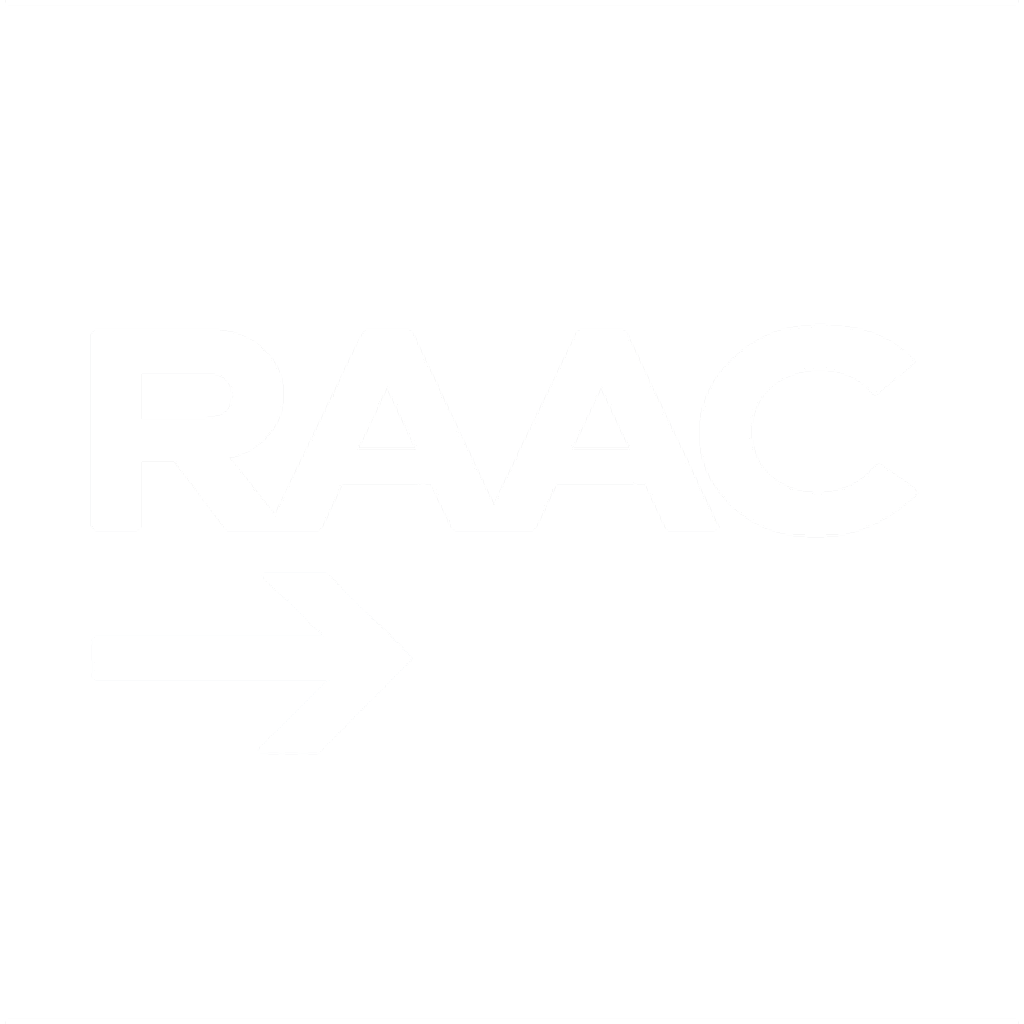
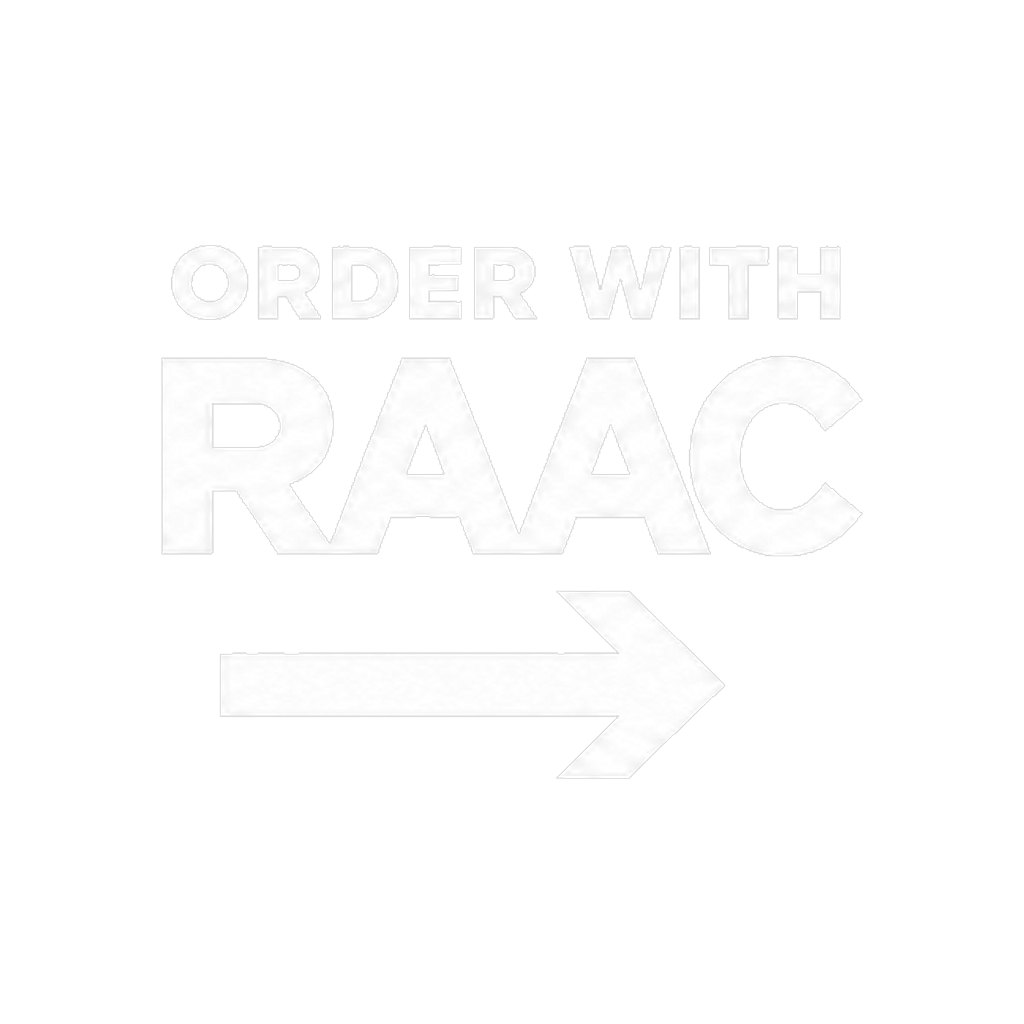
Switch the Raac app to the orange ORDER WITH mark and #FB7701 brand.

Changed region(s): [[0.75, 0.2812, 0.7812, 0.3125]]

diff --git a/constants/theme.ts b/constants/theme.ts
@@ -5,14 +5,15 @@
 
 import { Platform } from 'react-native';
 
-/** Raac brand — navy field + arrow blue from the wordmark. */
+/** Raac brand — orange field from the wordmark. */
 export const Brand = {
+  orange: '#FB7701',
+  orangeStrong: '#E06800',
   navy: '#202B3D',
   blue: '#3376BD',
-  blueStrong: '#2868A8',
 };
 
-const tintColorLight = Brand.blue;
+const tintColorLight = Brand.orange;
 const tintColorDark = '#fff';
 
 export const Colors = {
@@ -66,9 +67,9 @@ export const AppColors = {
   muted: '#6A6A6A',
   border: '#E6E6E6',
   accent: '#000000',
-  header: Brand.navy,
-  primary: Brand.blue,
+  header: Brand.orange,
+  primary: Brand.orange,
   disabled: '#F1F1F1',
   disabledText: '#B3B3B3',
-  link: Brand.blue,
+  link: Brand.orange,
 };

diff --git a/lib/local-images.ts b/lib/local-images.ts
@@ -9,7 +9,7 @@ import type { ImageSourcePropType } from 'react-native';
  * in AsyncStorage. Later launches skip re-unpacking the bundle asset.
  * Bump CACHE_VERSION when you replace the source PNG in assets/.
  */
-const CACHE_VERSION = 'v2';
+const CACHE_VERSION = 'v3';
 const META_KEY = '@raac/local-image-cache';
 const DIR = `${FileSystem.documentDirectory ?? ''}raac-images/`;
 

diff --git a/app/get-started.tsx b/app/get-started.tsx
@@ -155,7 +155,7 @@ const styles = StyleSheet.create({
   },
   brandLogo: {
     width: scaleWidth(196),
-    height: scaleHeight(104),
+    height: scaleHeight(150),
   },
   textContainer: {
     alignItems: 'center',

diff --git a/app/(tabs)/index.tsx b/app/(tabs)/index.tsx
@@ -436,8 +436,8 @@ const styles = StyleSheet.create({
     minHeight: 64,
   },
   logo: {
-    width: 128,
-    height: 56,
+    width: 118,
+    height: 90,
     marginLeft: 4,
   },
   profileIconContainer: {

diff --git a/components/phone-auth-screen.tsx b/components/phone-auth-screen.tsx
@@ -191,8 +191,8 @@ const styles = StyleSheet.create({
     paddingTop: 8,
   },
   brandLogo: {
-    width: 148,
-    height: 80,
+    width: 160,
+    height: 122,
     marginBottom: 20,
   },
   title: {

diff --git a/components/themed-text.tsx b/components/themed-text.tsx
@@ -55,6 +55,6 @@ const styles = StyleSheet.create({
   link: {
     lineHeight: 30,
     fontSize: 16,
-    color: '#3376BD',
+    color: '#FB7701',
   },
 });
